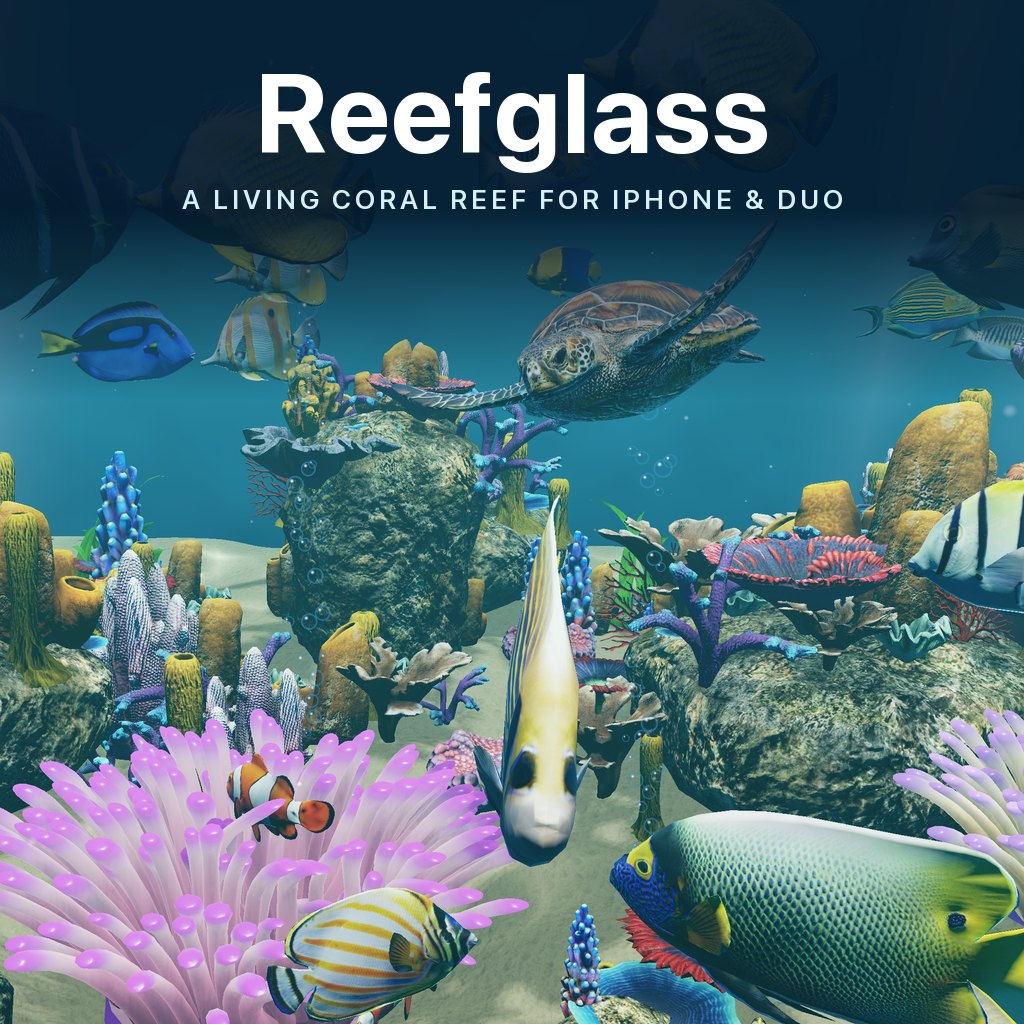
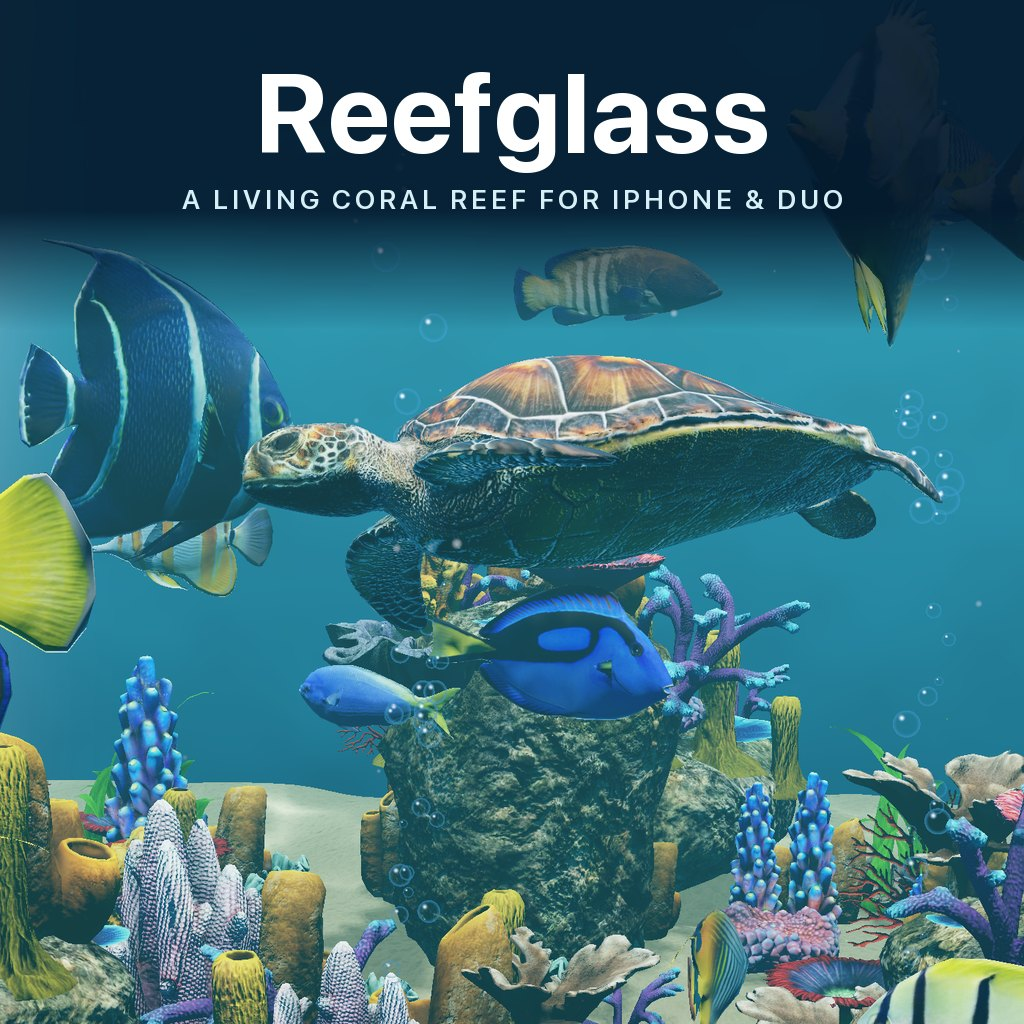
Reefglass card: the turtle side-on, no fish facing the camera

diff --git a/reefglass.html b/reefglass.html
@@ -128,7 +128,7 @@
 
                     <!-- Hero Image -->
                     <div class="content-section">
-                        <img src="reefglass-card.jpg" width="1024" height="1024" fetchpriority="high" alt="Reefglass - a living coral reef for iPhone and iPhone Duo. A sea turtle swims over rock, coral and anemones among angelfish, butterflyfish, tangs and a clownfish" style="width: 100%; height: auto; border-radius: 12px; box-shadow: var(--shadow-md);">
+                        <img src="reefglass-card.jpg" width="1024" height="1024" fetchpriority="high" alt="Reefglass - a living coral reef for iPhone and iPhone Duo. A sea turtle swims over rock and coral among an angelfish and blue tangs" style="width: 100%; height: auto; border-radius: 12px; box-shadow: var(--shadow-md);">
                     </div>
 
                     <!-- About Section -->
